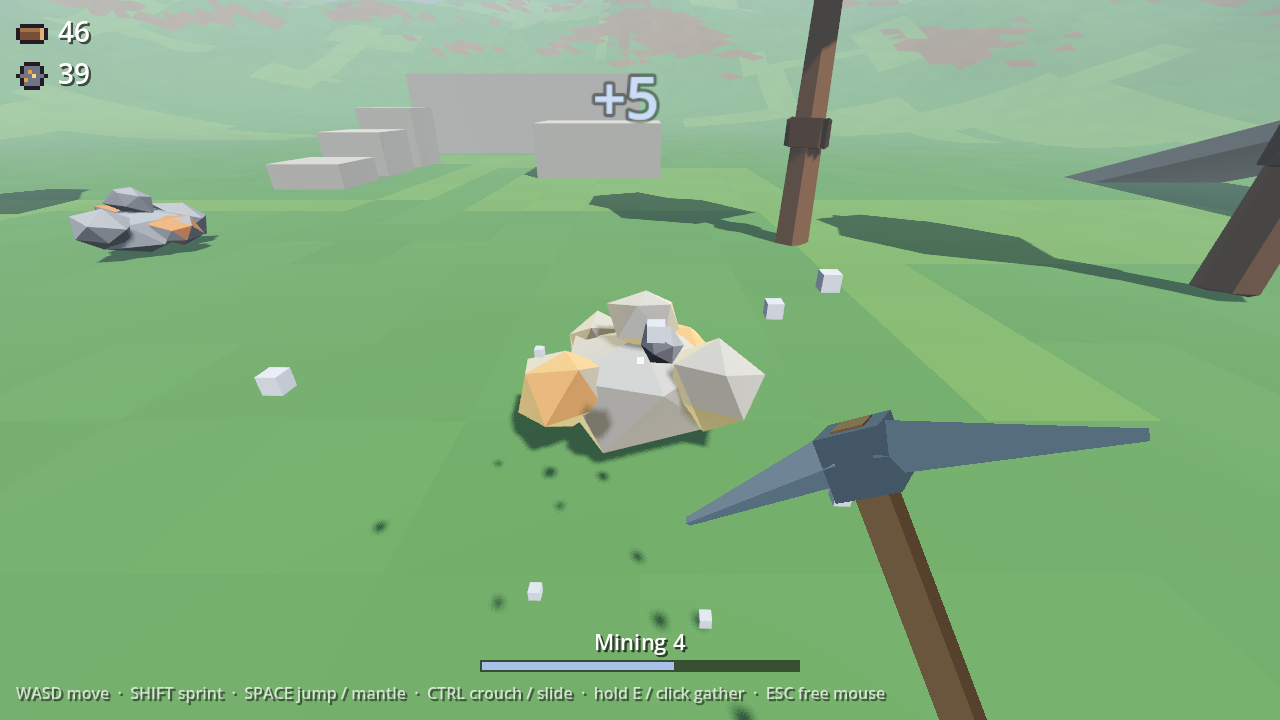
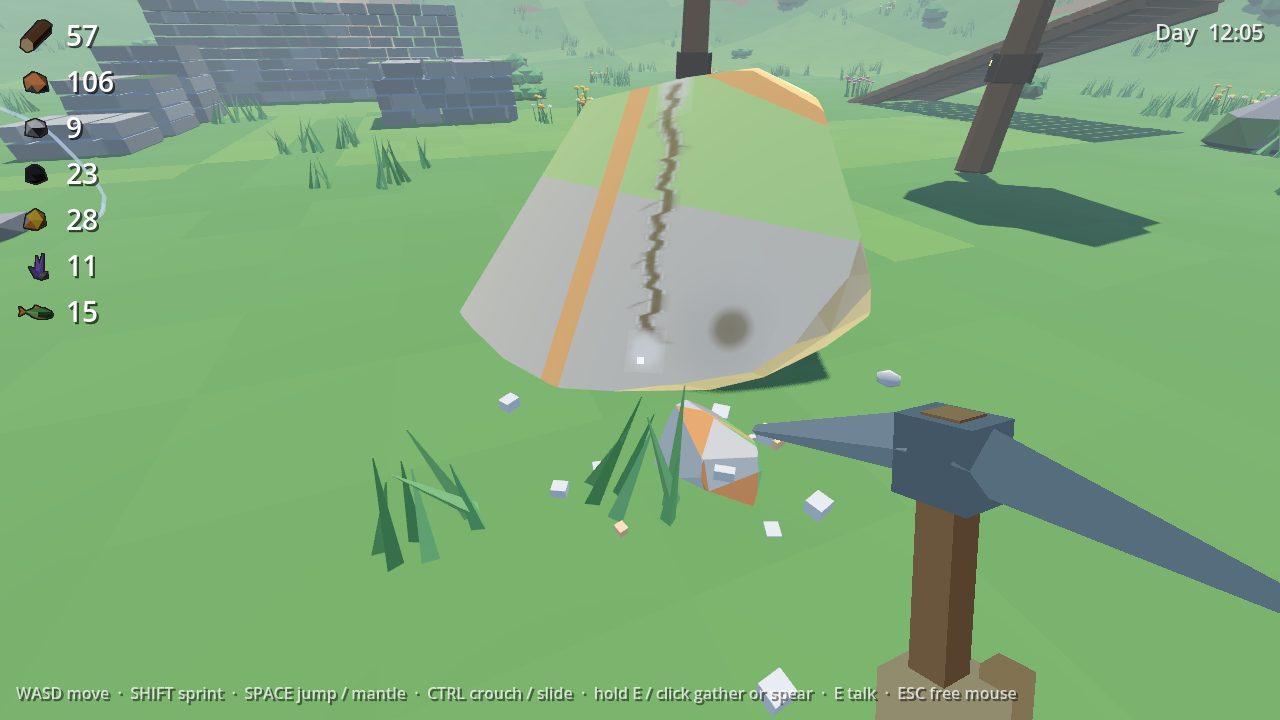
Mining overhaul: wrap-up docs and a new mining screenshot
- README: the mix-measuring tool in the asset pipeline, and the sound
  cutting row notes one source per layer at matched loudness.
- TODO: even levels done; better source material for the mining sounds
  is the next step (the sampler has almost no real rock), with how to
  swap it in without touching the layer stacks.
- docs/images/mining.png: a fresh in-game shot of the copper boulder
  mid-crack, a crack running down its seam with chips flying (the old one
  showed the original small rocks).

diff --git a/README.md b/README.md
@@ -149,7 +149,8 @@ Most content is generated by scripts, so it's easy to tweak and regenerate. Run 
 | Village buildings, villagers and props → `models/village/` | `blender -b -P tools/blender/make_village.py -- models art/palette.json` (or name builders, e.g. `smithy`) |
 | Item icons → `art/icons/*.png` | `blender -b -P tools/blender/render_icons.py -- models art/palette.png art/icons`, then `python tools/outline_icons.py` (name item ids after either to do only those) |
 | Ore design candidates → `models/designs/` (not used by the game; two looks per ore) | `blender -b -P tools/blender/make_models.py -- models art/palette.json designs` |
-| Mining sound clips → `audio/mining/sfx/` (needs the Sonniss GDC 2026 bundle, which isn't in the repo) | `blender -b -P tools/cut_sounds.py -- <bundle folder> audio/mining/sfx` (Blender's Python, for numpy) |
+| Mining sound clips → `audio/mining/sfx/` (needs the Sonniss GDC 2026 bundle, which isn't in the repo) | `blender -b -P tools/cut_sounds.py -- <bundle folder> audio/mining/sfx` (Blender's Python, for numpy). Each layer has one source, every clip at the same loudness. |
+| Check the mining mix without listening (how loud each event comes out, and how much that varies hit to hit) | `blender -b -P tools/measure_mix.py --` |
 | Placeholder sounds (footsteps, slide, wind, mantle, splash, spear) | `python tools/synth_movement_sounds.py` (needs numpy) |
 | Placeholder biome ambience (forest, field, quarry) | `python tools/synth_ambience.py` (needs numpy) |
 | Terrain: the original layout plus the biomes and roads (**overwrites** `terrain_data/`) | `godot --headless --path . -s res://tools/generate_test_terrain.gd` (add `-- --preview=map.png` for a top-down check). It keeps the ground under hand-placed nodes as it was and reports any that moved. |

diff --git a/docs/TODO.md b/docs/TODO.md
@@ -83,8 +83,8 @@ Plan and decisions: [plans/biomes.md](../plans/biomes.md).
 
 - [ ] **Real recordings** to replace the synthesized placeholders: footsteps (all surfaces + water), slide scrape, mantle, splash, spear hit, and the biome ambience beds (`audio/footsteps/`, `audio/movement/`, `audio/fishing/`, `audio/ambience/` — swap the `.wav`s, the `.tres` randomizers stay).
 - [x] **Mining sounds:** cut from the GDC 2026 sampler (`tools/cut_sounds.py`).
-- [ ] **Better rock material:** the sampler has almost no real rock. Ice cracks, concrete impacts and a broom sweeping crumbs stand in for stone cracking, the pick's bite and gravel. A dedicated rock / debris library would beat them (add recipes to `tools/cut_sounds.py`, the layer stacks stay).
-- [ ] **Tune the mining mix** by ear in game: each layer's volume, pitch and delay in `audio/mining/*.tres`.
+- [x] **Even mining levels:** every clip at the same loudness, one source per layer, and the plain hit ducks under a crack tip or a split (`ResourceNode._hit_sounds`). Measured with `tools/measure_mix.py`: a plain hit stays within a 3.4 dB window (was 10.7), a tip hit lands 2 dB above it, a split 3.7 dB.
+- [ ] **Better source material for mining (next):** playtested, the sounds are even now but still don't feel right. The sampler has almost no real rock: ice cracks, a metal pipe on concrete, body punches and a broom sweeping crumbs stand in for stone cracking, the pick's bite, the thump and gravel, and the split crunch is a "gore smash". Find a real rock / mining library (stone impacts, pick on rock, rubble, gravel), then point the recipes in `tools/cut_sounds.py` at it: the layer stacks, the loudness matching and the ducking all stay. Re-run `tools/measure_mix.py` and rebalance the layer volumes after.
 
 ## World & tech
 
